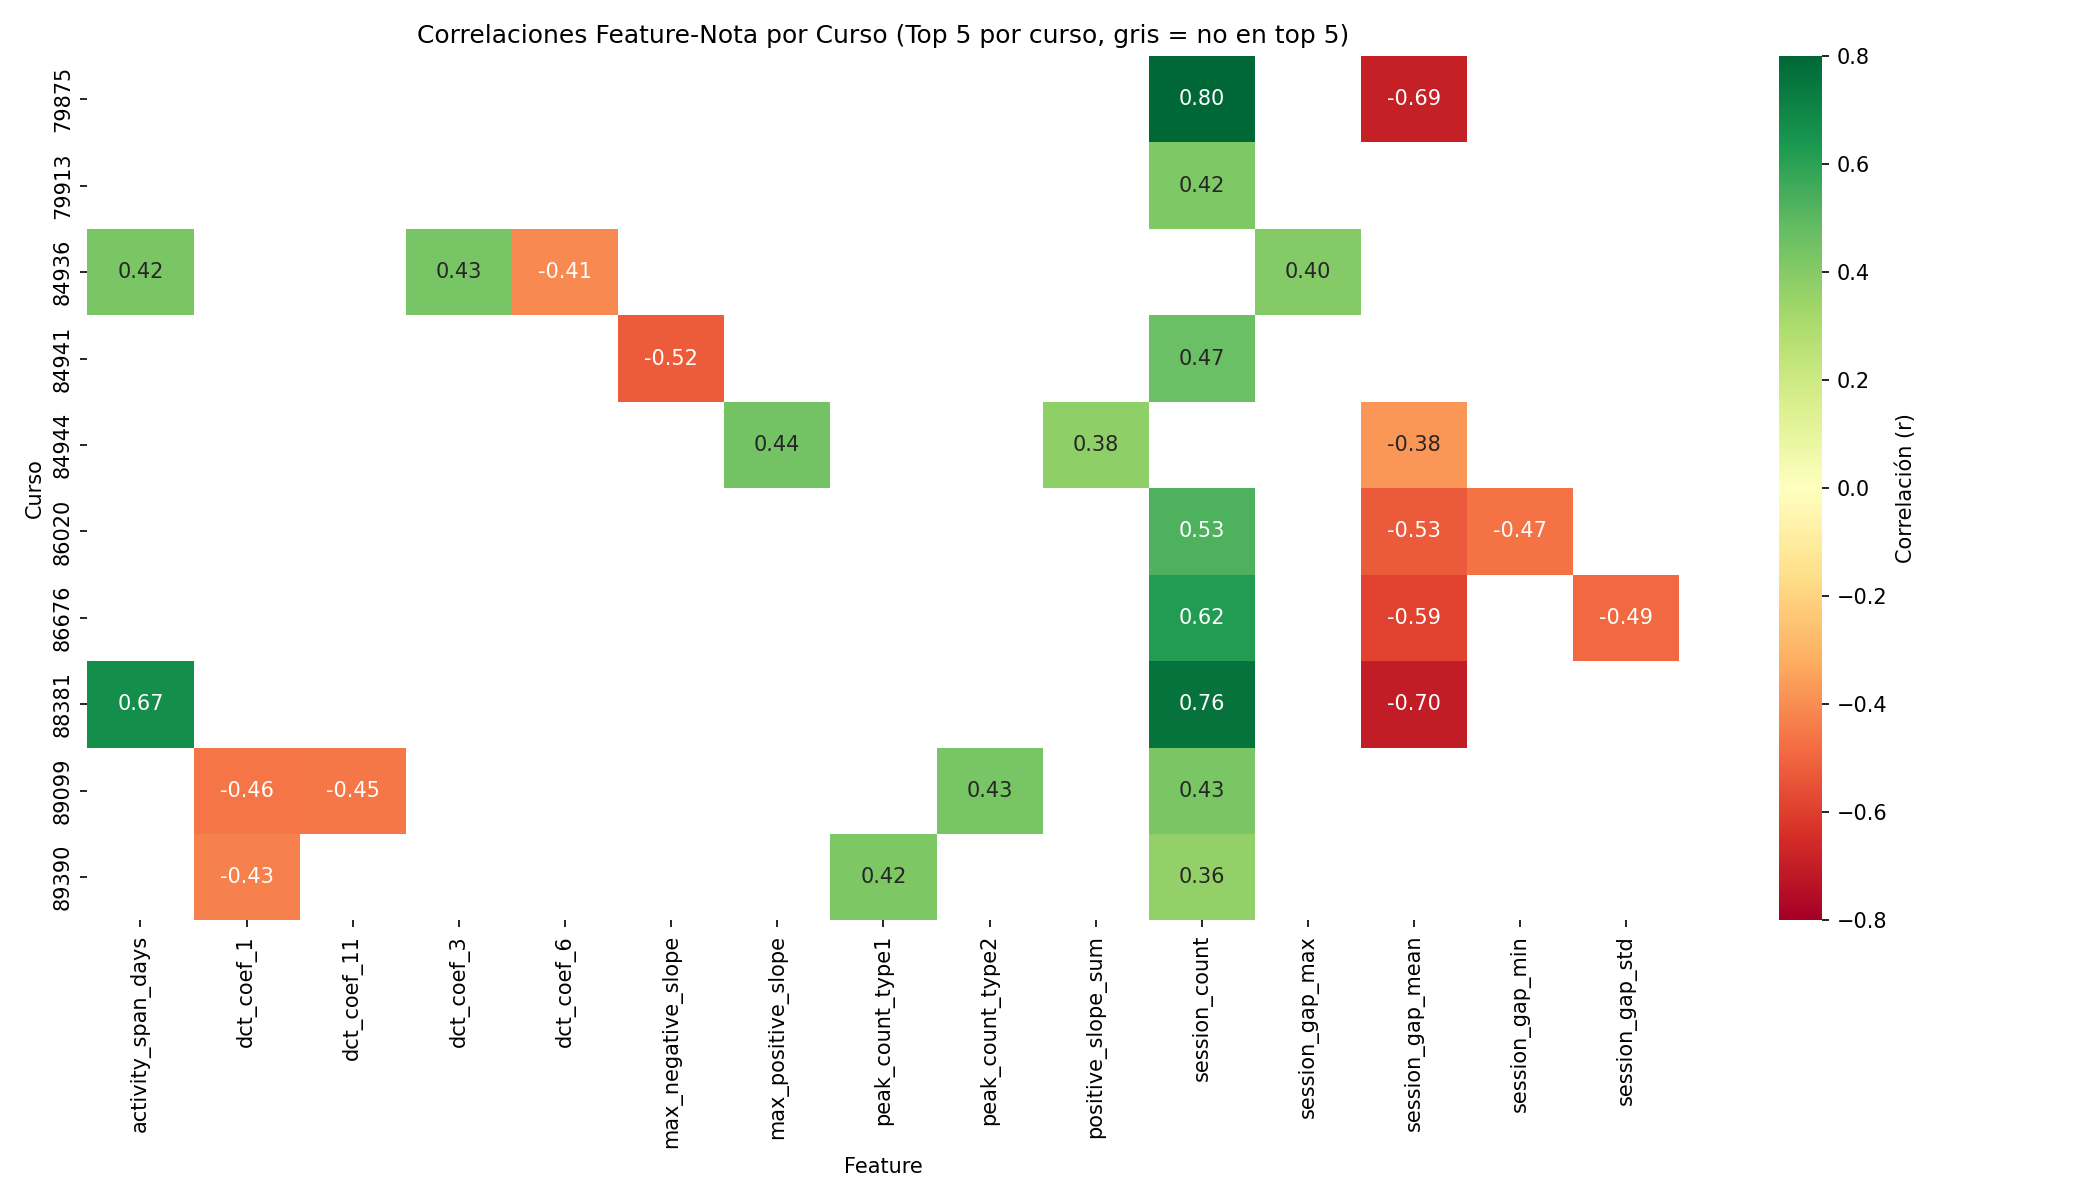
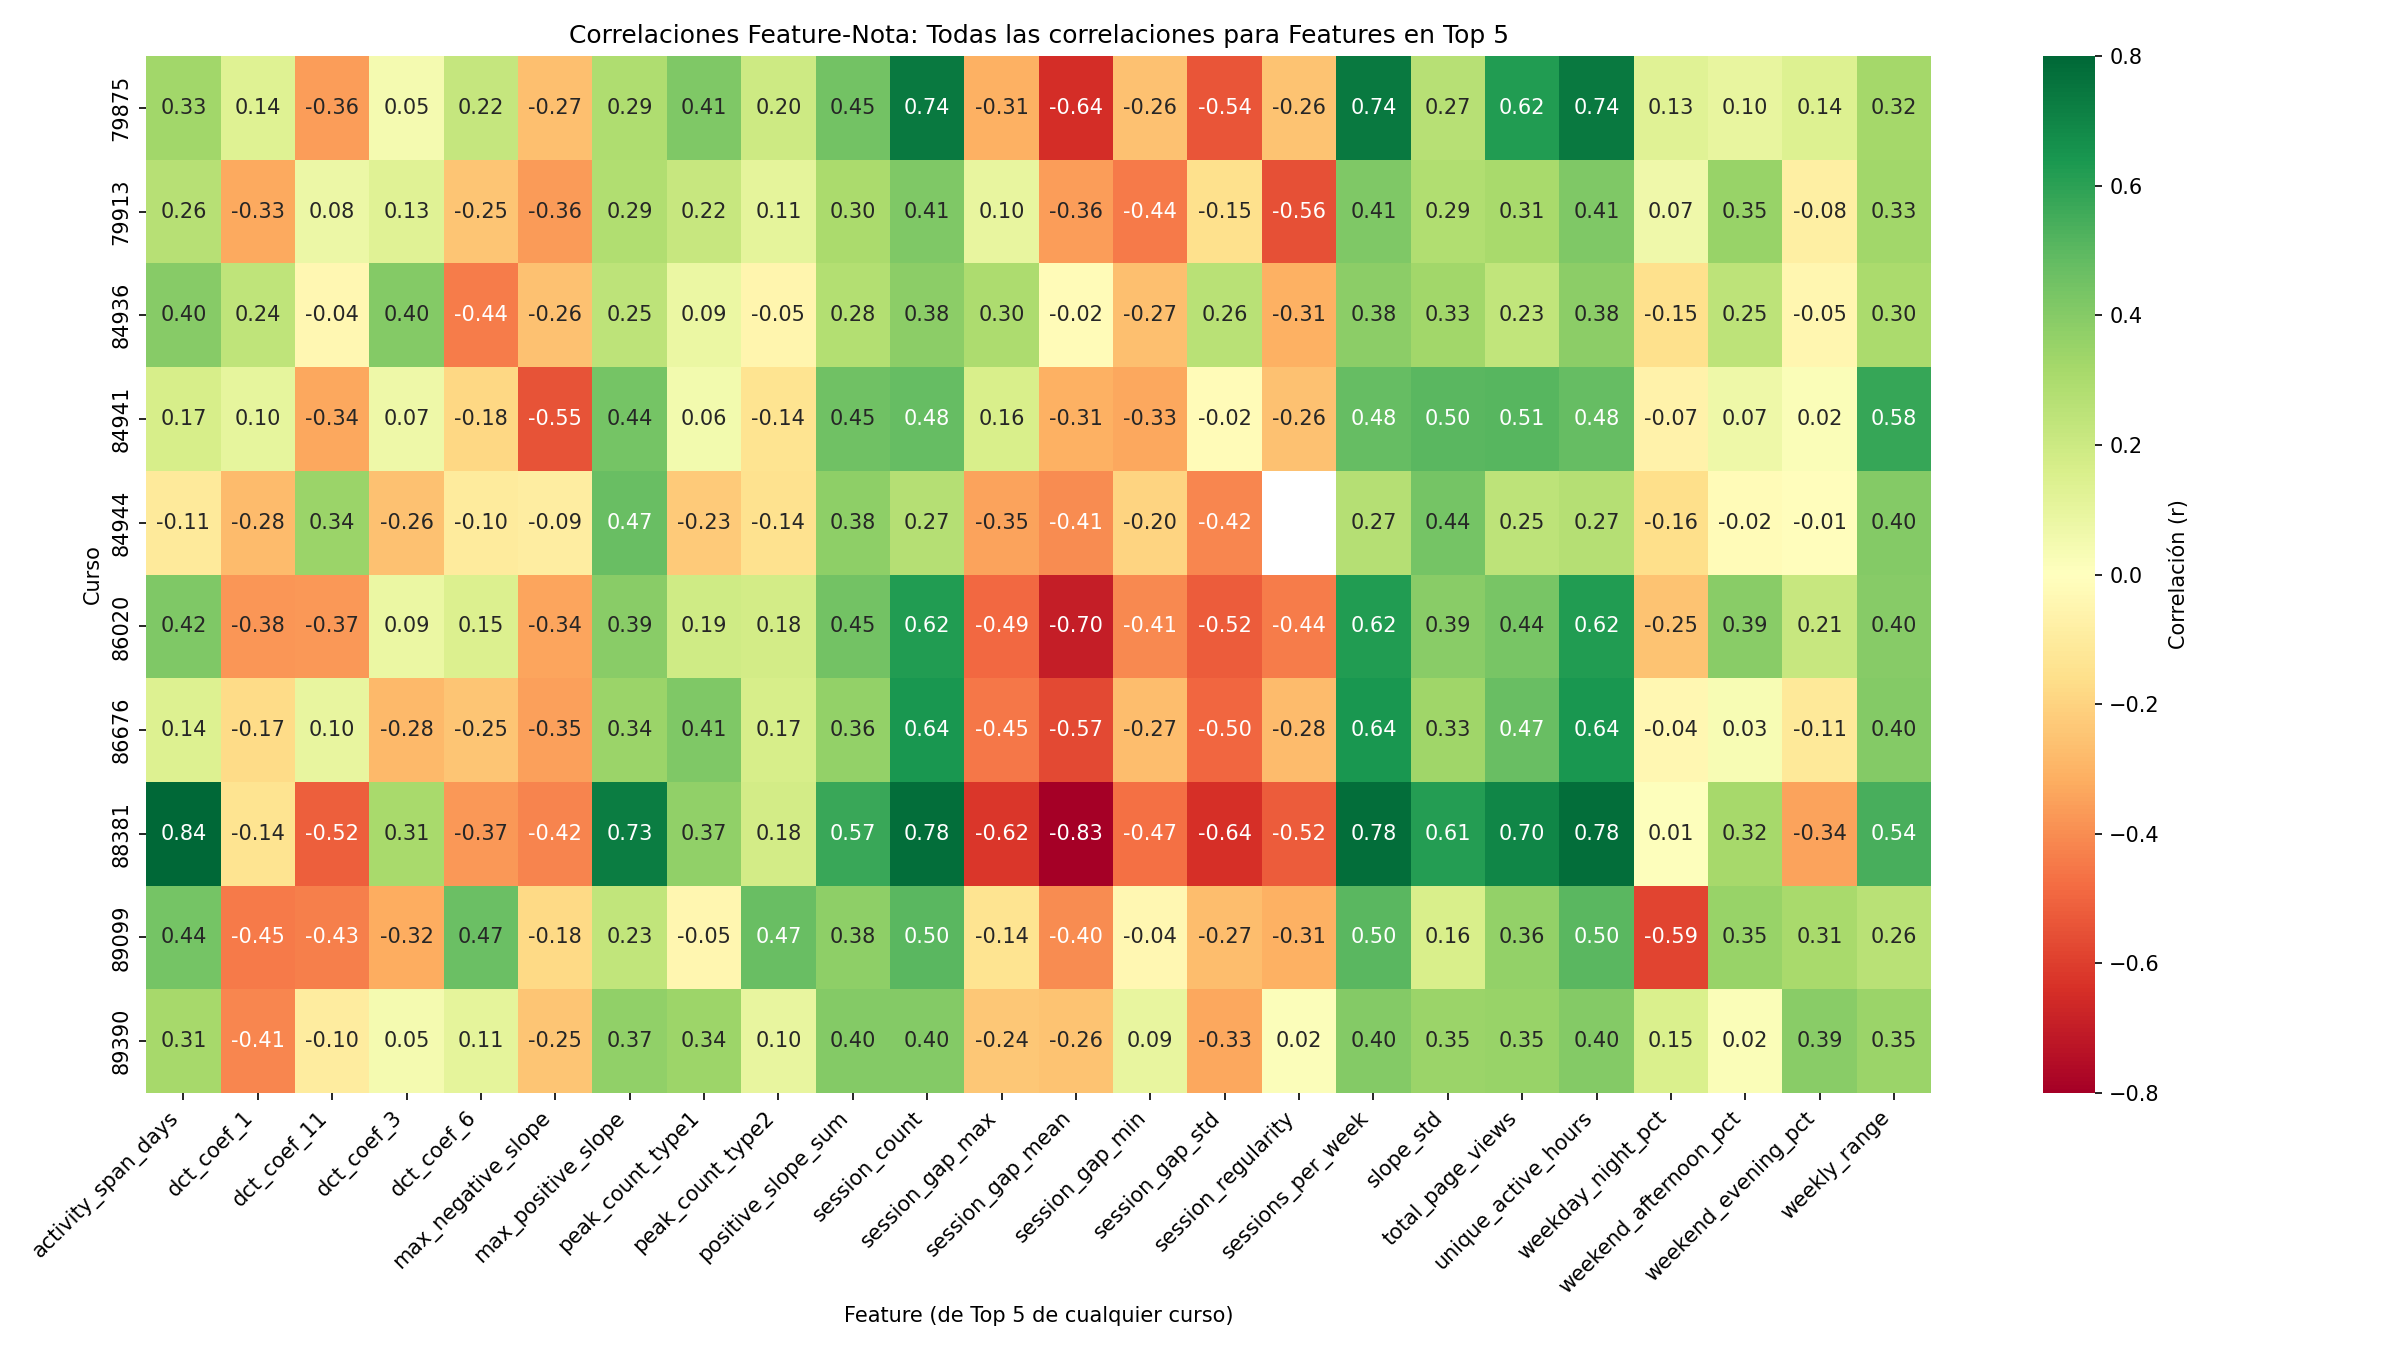
Fix: Correlation heatmap shows all values, not just top 5
Previously showed 0.00 for features not in a course's top 5, which was
misleading. Now calculates actual correlations from raw student data
for all 24 features that appear in any course's top 5.

🤖 Generated with [Claude Code](https://claude.com/claude-code)

diff --git a/scripts/generate_technical_report.py b/scripts/generate_technical_report.py
@@ -205,46 +205,55 @@ def create_pass_rate_bars(data):
 def create_correlation_heatmap(data):
     """Heatmap de correlaciones de los top features por curso.
 
-    Muestra NaN (gris) para features que no están en el top 5 de un curso,
-    en lugar de 0 que sería engañoso.
+    Calcula TODAS las correlaciones para los features que aparecen en el
+    top 5 de cualquier curso, mostrando el panorama completo.
     """
-    fig, ax = plt.subplots(figsize=(14, 8))
+    from scipy import stats
 
-    # Extraer top 5 features por curso
-    courses = []
+    fig, ax = plt.subplots(figsize=(16, 9))
+
+    # Extraer top 5 features por curso (unión de todos)
+    good_courses = []
     all_features = set()
 
     for c in data["per_course"]:
         if c.get("class_diversity") == "GOOD":
-            courses.append(c["course_id"])
+            good_courses.append(c["course_id"])
             for feat, _ in c.get("top_correlations", [])[:5]:
                 all_features.add(feat)
 
-    # Crear matriz con NaN por defecto (se mostrará gris)
-    features = sorted(list(all_features))[:15]  # Top 15 features
-    matrix = np.full((len(courses), len(features)), np.nan)
+    # Calcular TODAS las correlaciones desde datos crudos
+    df = data["student_features"]
+    features = sorted(list(all_features))
+    matrix = np.zeros((len(good_courses), len(features)))
 
-    for i, c in enumerate(data["per_course"]):
-        if c["course_id"] not in courses:
-            continue
-        idx = courses.index(c["course_id"])
-        corr_dict = {f: v["r"] for f, v in c.get("top_correlations", [])}
+    for i, course_id in enumerate(good_courses):
+        course_df = df[df["course_id"].astype(str) == str(course_id)]
         for j, feat in enumerate(features):
-            if feat in corr_dict:
-                matrix[idx, j] = corr_dict[feat]
+            if feat in course_df.columns and "final_score" in course_df.columns:
+                valid = course_df[[feat, "final_score"]].dropna()
+                if len(valid) >= 5:
+                    with np.errstate(invalid='ignore'):
+                        r, _ = stats.pearsonr(valid[feat], valid["final_score"])
+                    matrix[i, j] = r if not np.isnan(r) else 0
+                else:
+                    matrix[i, j] = np.nan
 
     # Crear heatmap con máscara para NaN
+    mask = np.isnan(matrix)
     sns.heatmap(matrix, annot=True, fmt=".2f", cmap="RdYlGn",
-                xticklabels=features, yticklabels=[str(c)[-5:] for c in courses],
+                xticklabels=features,
+                yticklabels=[str(c) for c in good_courses],
                 center=0, vmin=-0.8, vmax=0.8, ax=ax,
-                mask=np.isnan(matrix), cbar_kws={"label": "Correlación (r)"})
+                mask=mask, cbar_kws={"label": "Correlación (r)"})
 
-    ax.set_xlabel("Feature")
+    ax.set_xlabel("Feature (de Top 5 de cualquier curso)")
     ax.set_ylabel("Curso")
-    ax.set_title("Correlaciones Feature-Nota por Curso (Top 5 por curso, gris = no en top 5)")
+    ax.set_title("Correlaciones Feature-Nota: Todas las correlaciones para Features en Top 5")
 
+    plt.xticks(rotation=45, ha="right")
     plt.tight_layout()
-    plt.savefig(VIZ_DIR / "correlation_heatmap.png")
+    plt.savefig(VIZ_DIR / "correlation_heatmap.png", dpi=150)
     plt.close()
 
 
